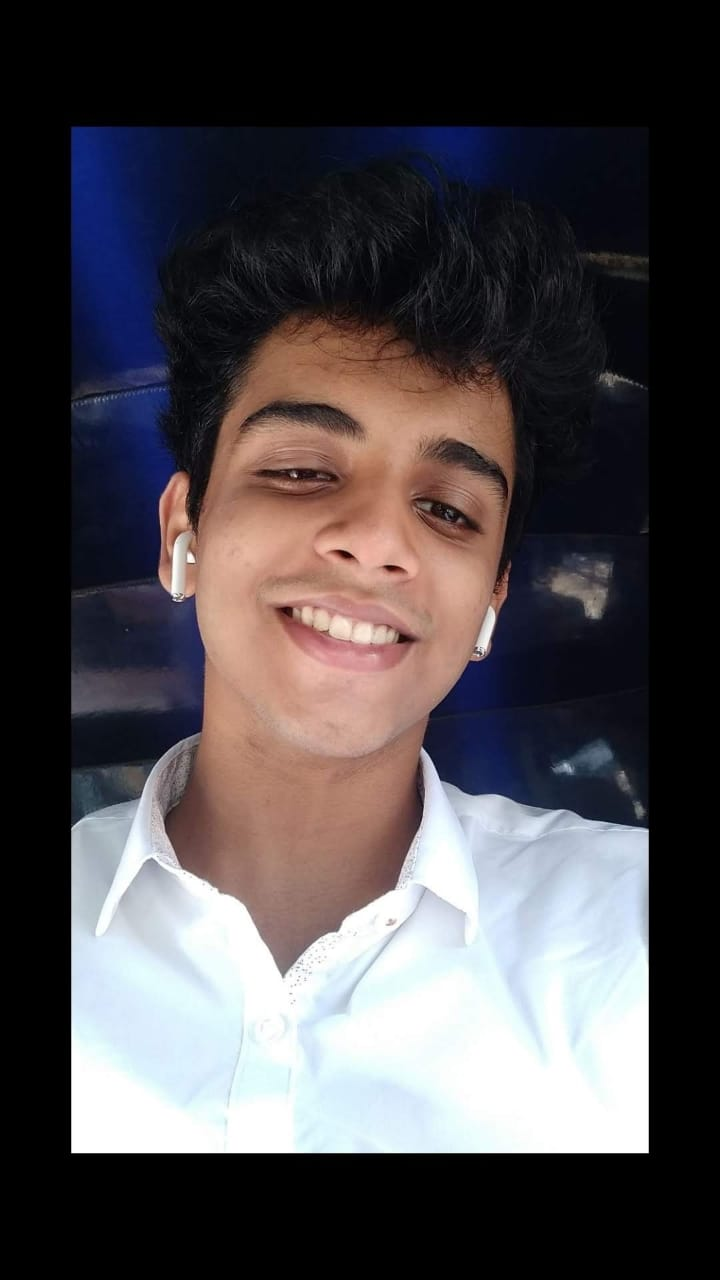
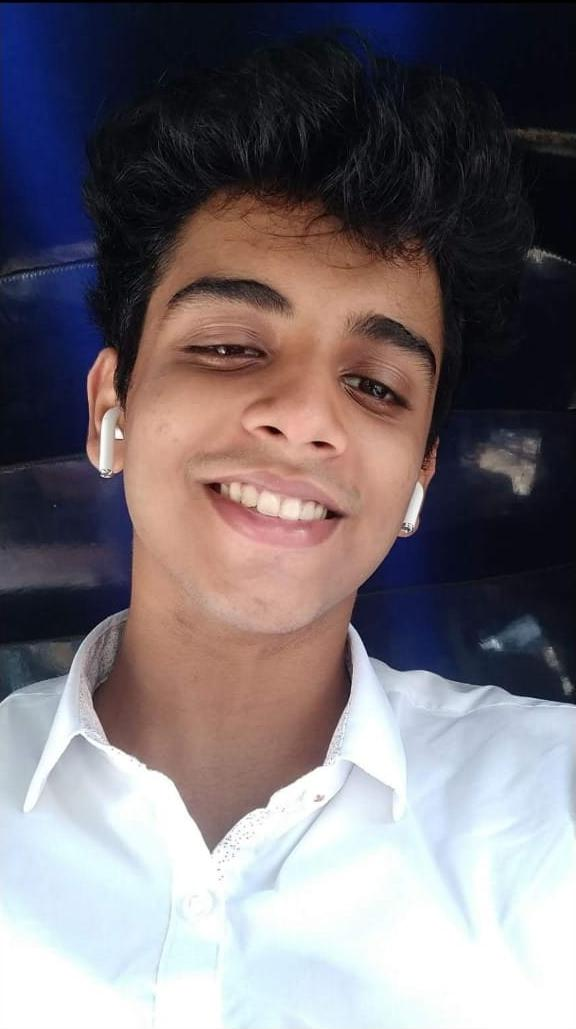
new_dp

diff --git a/css/main.css b/css/main.css
@@ -7,8 +7,8 @@
 }
 .dp{
     border-radius: 50%;
-    height: 300px;
-    width: 250px;
+    height: 250px;
+    width: 200px;
     box-shadow: #0d7bc5 2px 5px 5px;
 }
 body{
